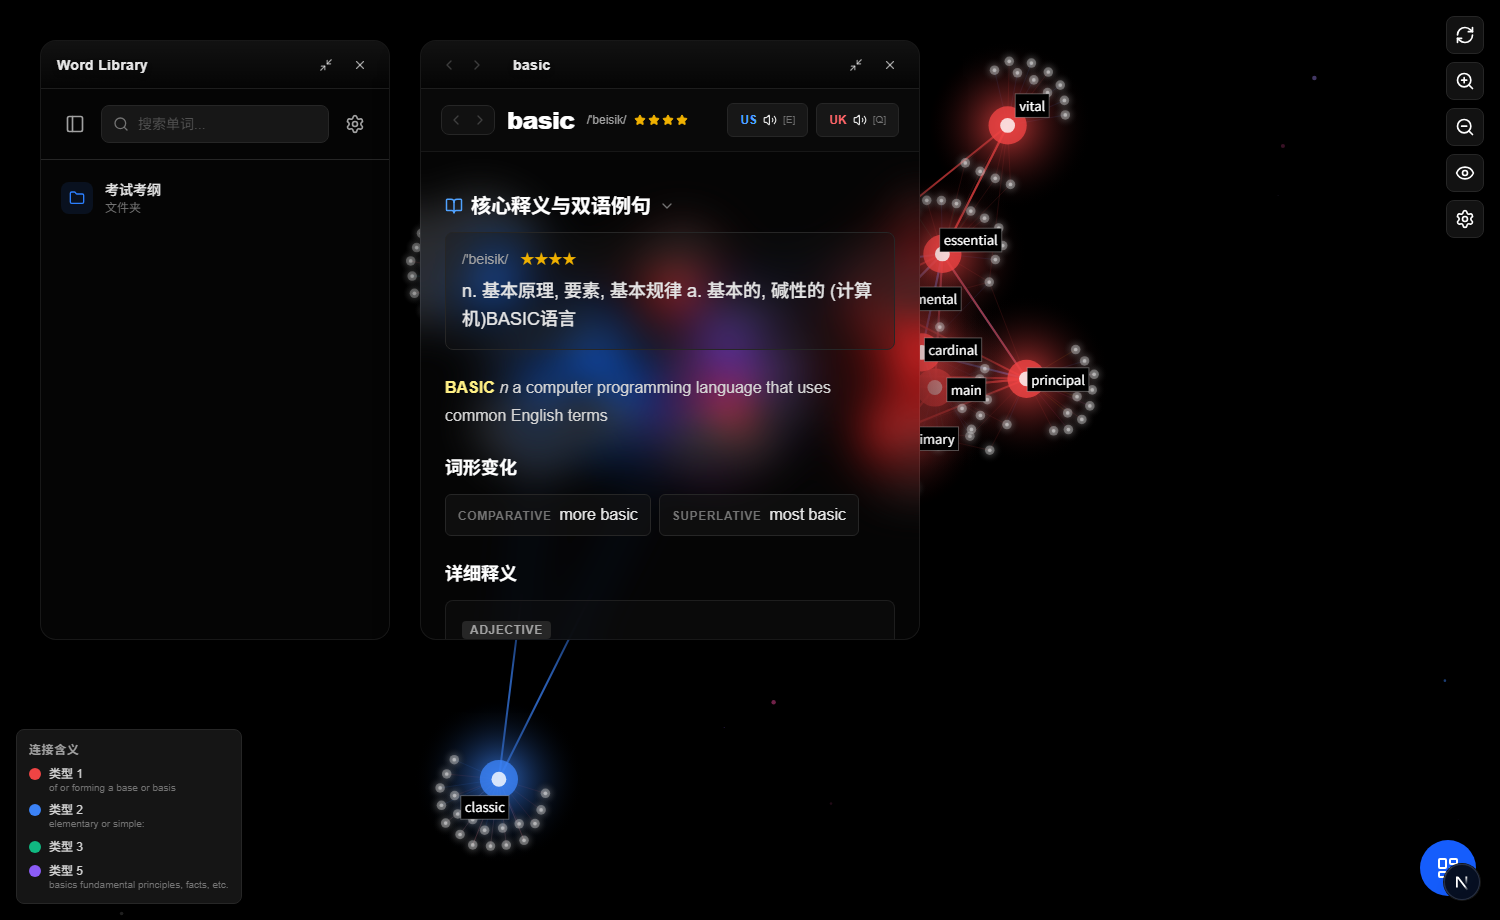
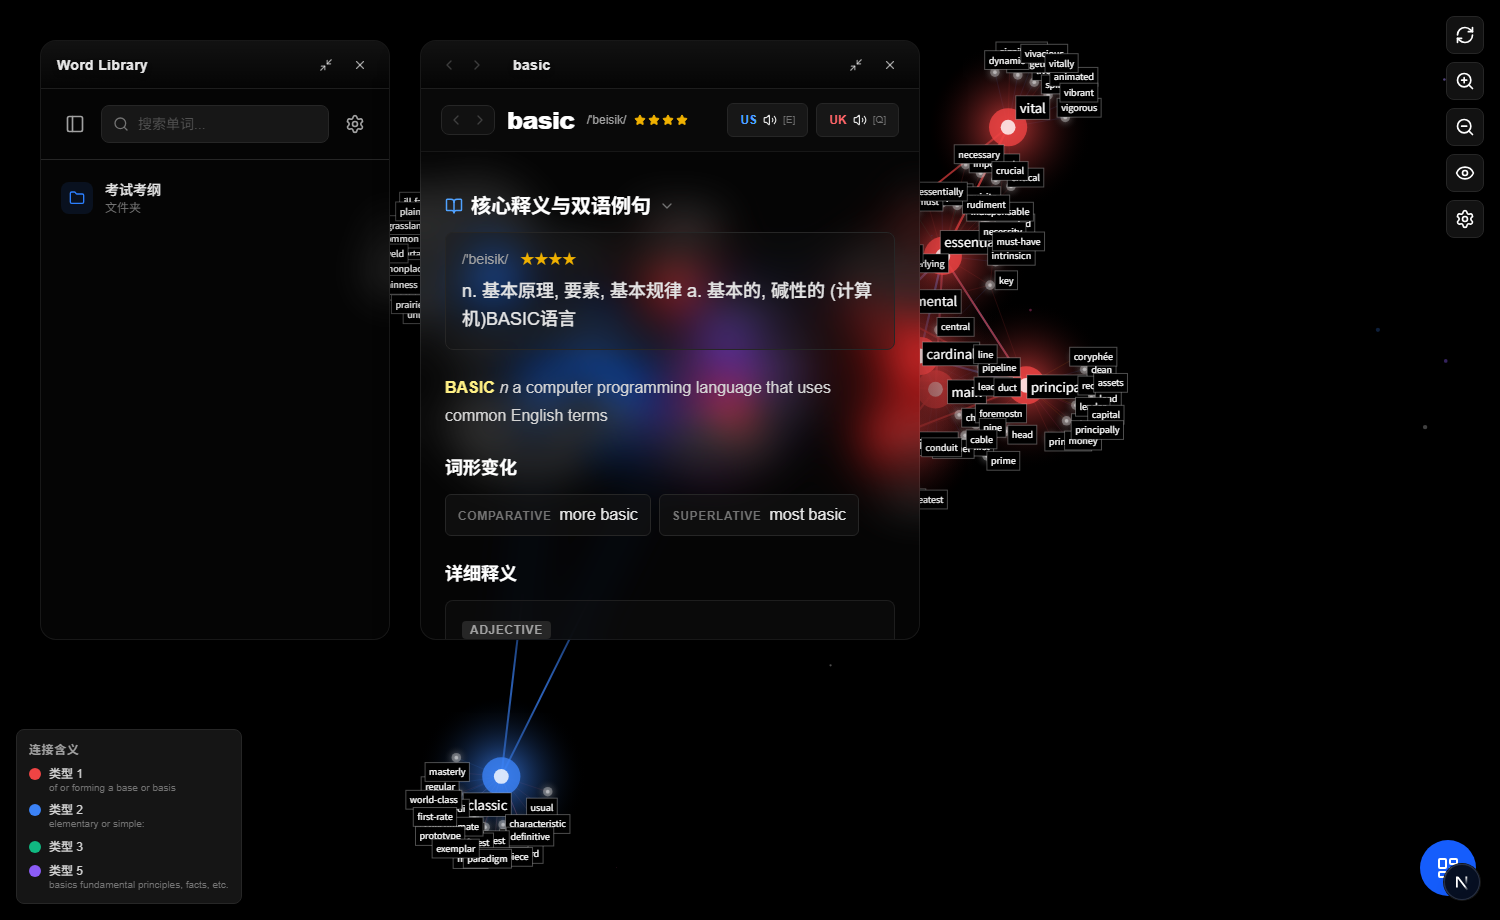
fix(graph): unified clean level-2 label visibility across normal and immersive modes

diff --git a/src/components/PanelFissionGraph.tsx b/src/components/PanelFissionGraph.tsx
@@ -817,7 +817,12 @@ export default function PanelFissionGraph({ word, onNodeClick }: PanelFissionGra
                         if (!showLevel2 && node.level === 2) return;
                         const x = node.x ?? 0;
                         const y = node.y ?? 0;
-                        const isHovered = hoveredNode && hoveredNode.id === node.id;
+                        const isHovered = Boolean(hoveredNode && hoveredNode.id === node.id);
+                        const isNeighbor = Boolean(hoveredNode && data.links.some((link: any) => {
+                            const s = link.source?.id || link.source;
+                            const t = link.target?.id || link.target;
+                            return (s === hoveredNode.id && t === node.id) || (t === hoveredNode.id && s === node.id);
+                        }));
 
                         // Check if we should show the combined tooltip
                         const showCombinedTooltip = globalShowHoverTooltip && showGraphTooltip && isHovered;
@@ -833,7 +838,7 @@ export default function PanelFissionGraph({ word, onNodeClick }: PanelFissionGra
                                 tooltipRef.current.style.transform = 'translate(-50%, -100%)';
                             }
 
-                        } else if (node.level < 2 || globalScale > 1.2 || isHovered) {
+                        } else if (node.level < 2 || globalScale > 1.0 || isHovered || isNeighbor) {
                             // Standard Label Drawing (Fallback)
                             let labelOffsetMultiplier = 1.2;
                             if (node.level === 0) labelOffsetMultiplier = 1.5;

diff --git a/src/components/FissionGraph.tsx b/src/components/FissionGraph.tsx
@@ -809,7 +809,7 @@ export default function FissionGraph({ word, onNodeClick, mode = 'dashboard' }: 
                                     tooltipRef.current.style.top = `${screenY}px`;
                                     tooltipRef.current.style.transform = 'translate(-50%, -100%)';
                                 }
-                            } else if (node.level < 2 || isHovered || isNeighbor) {
+                            } else if (node.level < 2 || globalScale > 1.0 || isHovered || isNeighbor) {
                                 // Standard Label Drawing (Fallback)
                                 // Dynamic font size based on hierarchy and settings
                                 // Dynamic label offset based on node size
